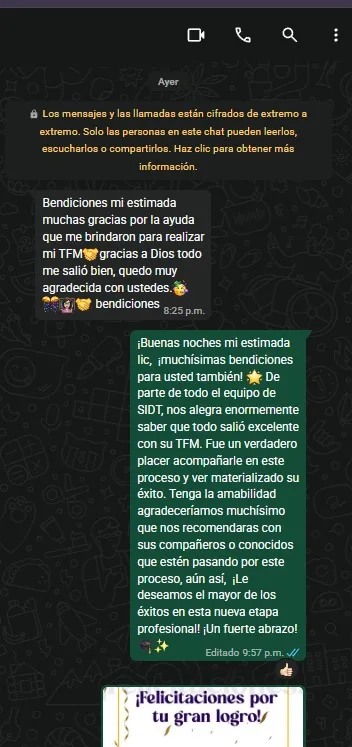
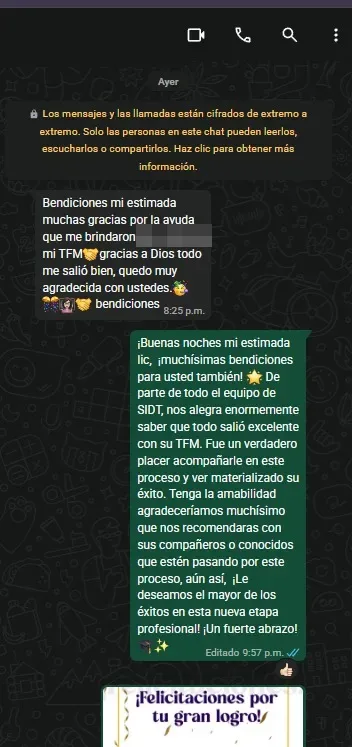
fix(landing): textos de asesoría para la política de Google Ads
Cambios del documento de Kozma 360 por el rechazo «Promoción de conducta
fraudulenta»: sello sin «100% original/Turnitin», sin promo 2x1, sin la
categoría Trabajos académicos, servicios redactados como asesoría, sección
«Nuestro enfoque» bajo el hero, aviso bajo las universidades, meta
descripción y mensajes de WhatsApp nuevos. Frases pixeladas en cuatro
capturas de testimonios, con alt corregido y versión por caché.

Changed region(s): [[0.375, 0.2771, 0.625, 0.3387]]

diff --git a/src/data/servicios.ts b/src/data/servicios.ts
@@ -1,26 +1,24 @@
 /** Selects dependientes categoría -> servicio específico (se conserva de form-services.js). */
 export const serviceOptions: Record<string, { value: string; label: string }[]> = {
   titulacion: [
-    { value: 'titulacion_definicion_tema', label: 'Definición del tema' },
-    { value: 'titulacion_anteproyectos', label: 'Anteproyectos' },
-    { value: 'titulacion_tesis_teoricas', label: 'Tesis teóricas' },
-    { value: 'titulacion_tesis_practicas', label: 'Tesis prácticas' },
-    { value: 'titulacion_capitulos_tesis', label: 'Capítulos de las tesis' },
-    { value: 'titulacion_monografia', label: 'Monografía' },
-    { value: 'titulacion_proyectos', label: 'Proyectos' },
-    { value: 'titulacion_simulaciones_disenos', label: 'Simulaciones/Diseños' },
-    { value: 'titulacion_revisiones', label: 'Revisiones' },
+    { value: 'titulacion_definicion_tema', label: 'Asesoría para definir tu tema' },
+    { value: 'titulacion_anteproyectos', label: 'Orientación para tu anteproyecto' },
+    { value: 'titulacion_tesis_teoricas', label: 'Tutoría para tesis teóricas' },
+    { value: 'titulacion_tesis_practicas', label: 'Tutoría para tesis prácticas' },
+    // Nunca «Capítulos» solo: siempre con el encuadre «que tú redactas» (Google Ads, 2026-11-09).
+    { value: 'titulacion_capitulos_tesis', label: 'Retroalimentación sobre los capítulos que tú redactas' },
+    { value: 'titulacion_monografia', label: 'Orientación para monografías' },
+    { value: 'titulacion_proyectos', label: 'Asesoría para proyectos de investigación' },
+    { value: 'titulacion_simulaciones_disenos', label: 'Asesoría en simulaciones y diseños' },
+    { value: 'titulacion_revisiones', label: 'Revisión y corrección de estilo de tus avances' },
   ],
   examen_complexivo: [
-    { value: 'examen_ensayos', label: 'Ensayos' },
-    { value: 'examen_proyecto_integrador', label: 'Proyecto Integrador' },
+    { value: 'examen_ensayos', label: 'Tutoría para estructurar tu ensayo' },
+    { value: 'examen_proyecto_integrador', label: 'Orientación para tu proyecto integrador' },
     { value: 'examen_proyecto', label: 'Proyecto' },
   ],
-  academico: [
-    { value: 'academico_ensayos', label: 'Ensayos' },
-    { value: 'academico_proyecto_integrador', label: 'Proyecto Integrador' },
-    { value: 'academico_informe', label: 'Informes' },
-  ],
+  // «Trabajos académicos» (entregas de materias) se retiró por la política de Google Ads (2026-11-09).
+  // Los textos de la landing describen asesoría sobre lo que redacta el estudiante, nunca trabajos entregados.
 };
 
 /** Datos de cada categoría (las claves son las de `serviceOptions`). `pista` va en el selector y `frase` en el panel. */
@@ -29,22 +27,15 @@ export const categoriasServicio: { clave: keyof typeof serviceOptions; nombre: s
     clave: 'titulacion',
     nombre: 'Titulación',
     icono: 'graduation-cap',
-    pista: 'Del tema a la revisión final',
-    frase: 'Te acompañamos en cada parte de tu trabajo de titulación, desde definir el tema hasta las revisiones.',
+    pista: 'Del tema a tu sustentación, con guía experta',
+    frase: 'Clases y retroalimentación en cada etapa de tu trabajo de titulación, que desarrollas tú con nuestra guía: desde definir el tema hasta preparar tu sustentación.',
   },
   {
     clave: 'examen_complexivo',
     nombre: 'Examen complexivo',
     icono: 'exam',
-    pista: 'Ensayos y proyectos del examen',
-    frase: 'Asesoría en los trabajos que te piden para tu examen complexivo.',
-  },
-  {
-    clave: 'academico',
-    nombre: 'Trabajos académicos',
-    icono: 'notebook',
-    pista: 'Entregas de tus materias',
-    frase: 'Apoyo con las entregas de tus materias durante toda la carrera.',
+    pista: 'Preparación y tutoría para tu examen',
+    frase: 'Preparación y tutoría para tu examen complexivo: practicamos contigo y revisamos los avances que tú elaboras.',
   },
 ];
 
@@ -61,8 +52,5 @@ export const detalleServicio: Record<string, { icono: string; apoyo?: string }> 
   titulacion_revisiones: { icono: 'seal-check' },
   examen_ensayos: { icono: 'pen-nib', apoyo: 'Ordena tus ideas y sustenta tu postura con fuentes.' },
   examen_proyecto_integrador: { icono: 'puzzle-piece', apoyo: 'Aplica en un solo trabajo lo aprendido en la carrera.' },
-  examen_proyecto: { icono: 'presentation-chart', apoyo: 'Guía desde el planteamiento hasta el documento final.' },
-  academico_ensayos: { icono: 'feather', apoyo: 'Argumentos claros, con citas y referencias en orden.' },
-  academico_proyecto_integrador: { icono: 'stack', apoyo: 'Organiza en una entrega el contenido de varias materias.' },
-  academico_informe: { icono: 'chart-line-up', apoyo: 'Presenta resultados y análisis con claridad.' },
+  examen_proyecto: { icono: 'presentation-chart', apoyo: 'Guía desde el planteamiento hasta tu sustentación.' },
 };

diff --git a/src/data/contenido.ts b/src/data/contenido.ts
@@ -10,7 +10,7 @@ export const pasos = [
   { titulo: 'Asesor Dedicado', texto: 'Un asesor experto se comunicará contigo para brindarte información personalizada.' },
   { titulo: 'Contrato Formal', texto: 'Firmarás un contrato que garantiza transparencia y compromiso mutuo.' },
   { titulo: 'Reuniones Periódicas', texto: 'Actualizaciones constantes y reuniones programadas durante todo el proceso.' },
-  { titulo: 'Entrega Final', texto: 'Recibirás el informe final de asesoría y reporte de originalidad.' },
+  { titulo: 'Cierre de asesoría', texto: 'Recibes el resumen de tus sesiones, las observaciones finales sobre tu trabajo y recomendaciones para tu sustentación.' },
 ];
 
 export const beneficios = [
@@ -24,3 +24,11 @@ export const beneficios = [
 
 export const disclaimer =
   'SIDT ofrece servicios de asesoría, consultoría y corrección de estilo para trabajos de investigación. No redactamos trabajos académicos completos ni fomentamos el plagio o la deshonestidad académica. El alumno es el único responsable de la autoría y defensa de su investigación.';
+
+/** Sección «Nuestro enfoque», bajo el hero (pedido de Google Ads, 2026-11-09). Texto exacto: no reescribir. */
+export const enfoque =
+  'SIDT brinda tutoría, asesoría metodológica y corrección de estilo. No redactamos tesis, ensayos ni trabajos académicos por el estudiante, no vendemos trabajos elaborados y no fomentamos el plagio ni la deshonestidad académica. Cada estudiante es el autor y responsable de su investigación y de su defensa.';
+
+/** Aviso bajo la franja de universidades. Texto exacto. */
+export const avisoUniversidades =
+  'Nuestros estudiantes provienen de diversas universidades. SIDT no mantiene convenios ni avales con estas instituciones.';

diff --git a/src/styles/sitio.css b/src/styles/sitio.css
@@ -108,8 +108,17 @@ header.cabecera { position: absolute; inset: 0 0 auto; z-index: 5; padding-block
 .franja-circulo-a { width: 3.5rem; left: 0; top: -1.75rem; }
 .franja-circulo-b { width: 3rem; right: 0; top: 75%; }
 
+/* ===== Nuestro enfoque (descargo visible bajo el hero) ===== */
+.enfoque { background: var(--lila); padding-block: clamp(1.75rem, 4vw, 2.75rem); }
+.enfoque-caja { display: flex; align-items: flex-start; gap: clamp(0.9rem, 2.5vw, 1.5rem); max-width: 62rem; padding-left: clamp(0.9rem, 2.5vw, 1.5rem); border-left: 4px solid var(--amarillo); }
+.enfoque-icono { flex: none; display: grid; place-items: center; width: 3rem; height: 3rem; border-radius: 50%; background: var(--tinta); color: var(--amarillo); font-size: 1.6rem; }
+.enfoque-texto { margin: 0; font-size: clamp(1rem, 1.6vw, 1.0625rem); line-height: 1.65; color: var(--grafito); }
+.enfoque-texto strong { color: var(--tinta); font-weight: 800; }
+@media (max-width: 479.98px) { .enfoque-icono { display: none; } }
+
 /* ===== Universidades ===== */
 .universidades { background: linear-gradient(90deg, var(--lila), var(--blanco) 30%, var(--blanco) 70%, var(--lila)); padding-block: 1.75rem; }
+.universidades-aviso { margin-top: 1rem; text-align: center; font-size: var(--t-peq); color: var(--grafito-suave); }
 .tira-marco { overflow: hidden; mask-image: linear-gradient(90deg, transparent, #000 7%, #000 93%, transparent); }
 .tira { display: flex; width: max-content; animation: tira 42s linear infinite; }
 .tira-marco:hover .tira, .tira-marco:focus-visible .tira { animation-play-state: paused; }

diff --git a/src/config/media.ts b/src/config/media.ts
@@ -30,9 +30,24 @@ const existe = (m?: Medio | null): m is Medio =>
 
 const lista = (v: unknown): Medio[] => (Array.isArray(v) ? (v as Medio[]).filter(existe) : []);
 
+/**
+ * Capturas con frases pixeladas por la política de Google Ads (2026-11-12): el texto alternativo no debe
+ * repetir lo que se censuró. Se corrige aquí porque el manifest lo escribe otro proceso.
+ */
+const CENSURADAS = ['testimonio-02', 'testimonio-03', 'testimonio-04', 'testimonio-09'];
+const ALT_CENSURADO: Record<string, string> = {
+  'testimonio-02': 'Captura de WhatsApp en la que alguien agradece el servicio y cuenta que está a la espera de su defensa',
+  'testimonio-04': 'Captura de WhatsApp en la que alguien agradece la ayuda recibida y el equipo responde que fue un gusto apoyarle',
+};
+
 /** Capturas de testimonios del build para el país. */
 export function testimoniosBuild(): Medio[] {
-  return lista(manifest?.[config.pais]?.testimonios);
+  return lista(manifest?.[config.pais]?.testimonios).map((m) => {
+    const censurada = CENSURADAS.find((n) => m.src.includes(`/${n}.`));
+    if (!censurada) return m;
+    // ?v=2: nginx cachea /media 30 días y el archivo conserva su nombre.
+    return { ...m, src: `${m.src}?v=2`, alt: ALT_CENSURADO[censurada] ?? m.alt };
+  });
 }
 
 /** Logo de universidad por nombre (alt "Logo de <nombre>"); null si no está. */

diff --git a/src/config/comun.ts b/src/config/comun.ts
@@ -1,10 +1,10 @@
 import type { PaisConfig } from './tipos';
 
 export const MENSAJE_WHATSAPP =
-  '¡Hola! Gracias por contactarnos a través de Google. 😊 ¿Qué tipo de trabajo deseas obtener más información y de qué carrera o especialidad es?';
+  '¡Hola! Gracias por contactarnos a través de Google. 😊 Quiero información sobre la asesoría y tutoría para mi proyecto académico. Mi carrera o especialidad es:';
 
 export const MENSAJE_WIDGET =
-  '¡Hola Ana! Vi la promo 2x1 en la web de SIDT y quiero información para mi tesis.';
+  '¡Hola Ana! Quiero información sobre la asesoría para mi tesis.';
 
 /** Medición. Se conserva igual que en producción. */
 export const GOOGLE_ADS_ID = 'AW-17358320939';

diff --git a/src/config/ec.ts b/src/config/ec.ts
@@ -6,7 +6,7 @@ const ec: PaisConfig = {
   razonSocial: 'Tesis S.A.',
   titulo: 'Asesoría en tesis en Ecuador | SIDT',
   descripcion:
-    'SIDT brinda asesoría en tesis, normas APA, examen complexivo y trabajos académicos a estudiantes en Ecuador. Cotiza por WhatsApp o con el formulario.',
+    'SIDT brinda tutoría y asesoría metodológica en tesis, corrección de estilo APA y preparación para el examen complexivo a estudiantes en Ecuador. Cotiza por WhatsApp o con el formulario.',
   dominio: 'lsec.asesoriasidt.com',
   idioma: 'es-EC',
   localeOg: 'es_EC',

diff --git a/src/config/pe.ts b/src/config/pe.ts
@@ -6,7 +6,7 @@ const pe: PaisConfig = {
   razonSocial: 'Tesis S.A.C',
   titulo: 'Asesoría en tesis en Perú | SIDT',
   descripcion:
-    'SIDT brinda asesoría en tesis, normas APA y trabajos académicos a estudiantes en Perú. Cotiza por WhatsApp o con el formulario.',
+    'SIDT brinda tutoría y asesoría metodológica en tesis y corrección de estilo APA a estudiantes en Perú. Cotiza por WhatsApp o con el formulario.',
   dominio: 'ls.asesoriasidt.com',
   idioma: 'es-PE',
   localeOg: 'es_PE',

diff --git a/src/config/tipos.ts b/src/config/tipos.ts
@@ -51,7 +51,7 @@ export interface PaisConfig {
   paisSeleccionado: { codigo: string; etiqueta: string };
   placeholderWhatsapp: string;
   whatsapp: Whatsapp;
-  /** Mensaje del widget de "Ana" (promo 2x1). */
+  /** Mensaje del widget de "Ana". Sin promociones atadas a la tesis (Google Ads). */
   mensajeWidget: string;
   universidades: Universidad[];
   /** Direcciones por defecto del build. Vacío = la sección se oculta hasta que la API las entregue. */

diff --git a/CLAUDE.md b/CLAUDE.md
@@ -43,7 +43,7 @@ docs/                   diseno-landing.md, deploy-landing.md, SIDT-CRO.pdf
 - **Formularios** (dos instancias: `<Formulario compacto />` en el hero y `<Formulario sufijo="-about" compacto />` en Nosotros): `action` a FormSubmit, `_captcha=false`, `_next` de respaldo `https://<dominio del build>/gracias.html`, que `formularios.ts` cambia en el navegador a `location.origin + '/gracias.html'` si el origen es uno de `DOMINIOS_SIDT`, honeypot `_honey`. Campos: solo `name`, `countryCode` y `whatsapp`, todos obligatorios (decisión del 2026-11-02 para facilitar el contacto); el sufijo `-about` va solo en los `id`.
 - **WhatsApp**: cada CTA es un `<a data-wa href="https://wa.me/...">` que funciona sin JS. `whatsapp.ts` registra la conversión de Google Ads: en escritorio abre pestaña nueva de forma síncrona; en móvil redirige tras la conversión (con respaldo de 1,2 s). `window.gtag_report_conversion()` sigue disponible.
 - **Medición**: no cambiar los ids. `gracias.astro` dispara la conversión con `send_to` `AW-17358320939/Ka2OCL2mr_EaEKvqi9VA`. Cualquier página nueva que reciba envíos necesita ese evento.
-- **Widget de "Ana"** (`ChatAna.astro`, `chat.ts`): solo escritorio, a los 8 s, se descarta por `sessionStorage` (`sidtChatClosed`), promo 2x1. Foto en `public/media/marca/avatar-ana.png` (40×40).
+- **Widget de "Ana"** (`ChatAna.astro`, `chat.ts`): solo escritorio, a los 8 s, se descarta por `sessionStorage` (`sidtChatClosed`). Sin promociones atadas a la tesis (rechazo de Google Ads del 2026-11-09). Foto en `public/media/marca/avatar-ana.png` (40×40).
 - **Contenido administrable** (`contenido.ts`): pide `/public/landing/<pais>` con timeout de 3 s y actualiza WhatsApp, "Dónde estamos" y testimonios (avisa con `contenido:testimonios` y `contenido:listo` para reconstruir el carrusel y recalcular ScrollTrigger). Valida todo, crea nodos con `textContent` (nunca `innerHTML`), solo acepta números de dígitos y rutas de imagen `/public/landing/<pais>/testimonios/<id>/imagen`. Los CTA con `data-wa-sufijo` (categorías de Servicios) conservan el mensaje base y le agregan su sufijo. Si `sucursales` o `testimonios` llegan vacíos, se mantiene lo del build; sin direcciones, la sección "Dónde estamos" queda oculta. El HTML sale completo del build: sin API todo funciona. Contrato en `sidt-app/docs/plan-trabajo/2026-11-02-landings-centralizadas.md`.
 - **Estilos**: colores solo como variables de `tokens.css`; el verde de WhatsApp solo en CTA de WhatsApp. Toda sección lleva forma o color de marca de fondo (`.fondo`).
 - **Movimiento**: `movimiento.ts` (GSAP) va por import dinámico y dentro de `gsap.matchMedia()`: si no carga o hay `prefers-reduced-motion`, todo queda visible. Solo `transform` y `opacity` (excepción: el trazo `stroke-dashoffset` de la ruta). Las animaciones continuas (formas, líneas, tira) son CSS. Lo que GSAP mueve es el contenedor `.forma`; lo que anima CSS es la imagen de dentro. La clase `pre-anim` la pone un script en línea de `Base.astro` y se retira sola a los 1,5 s.
